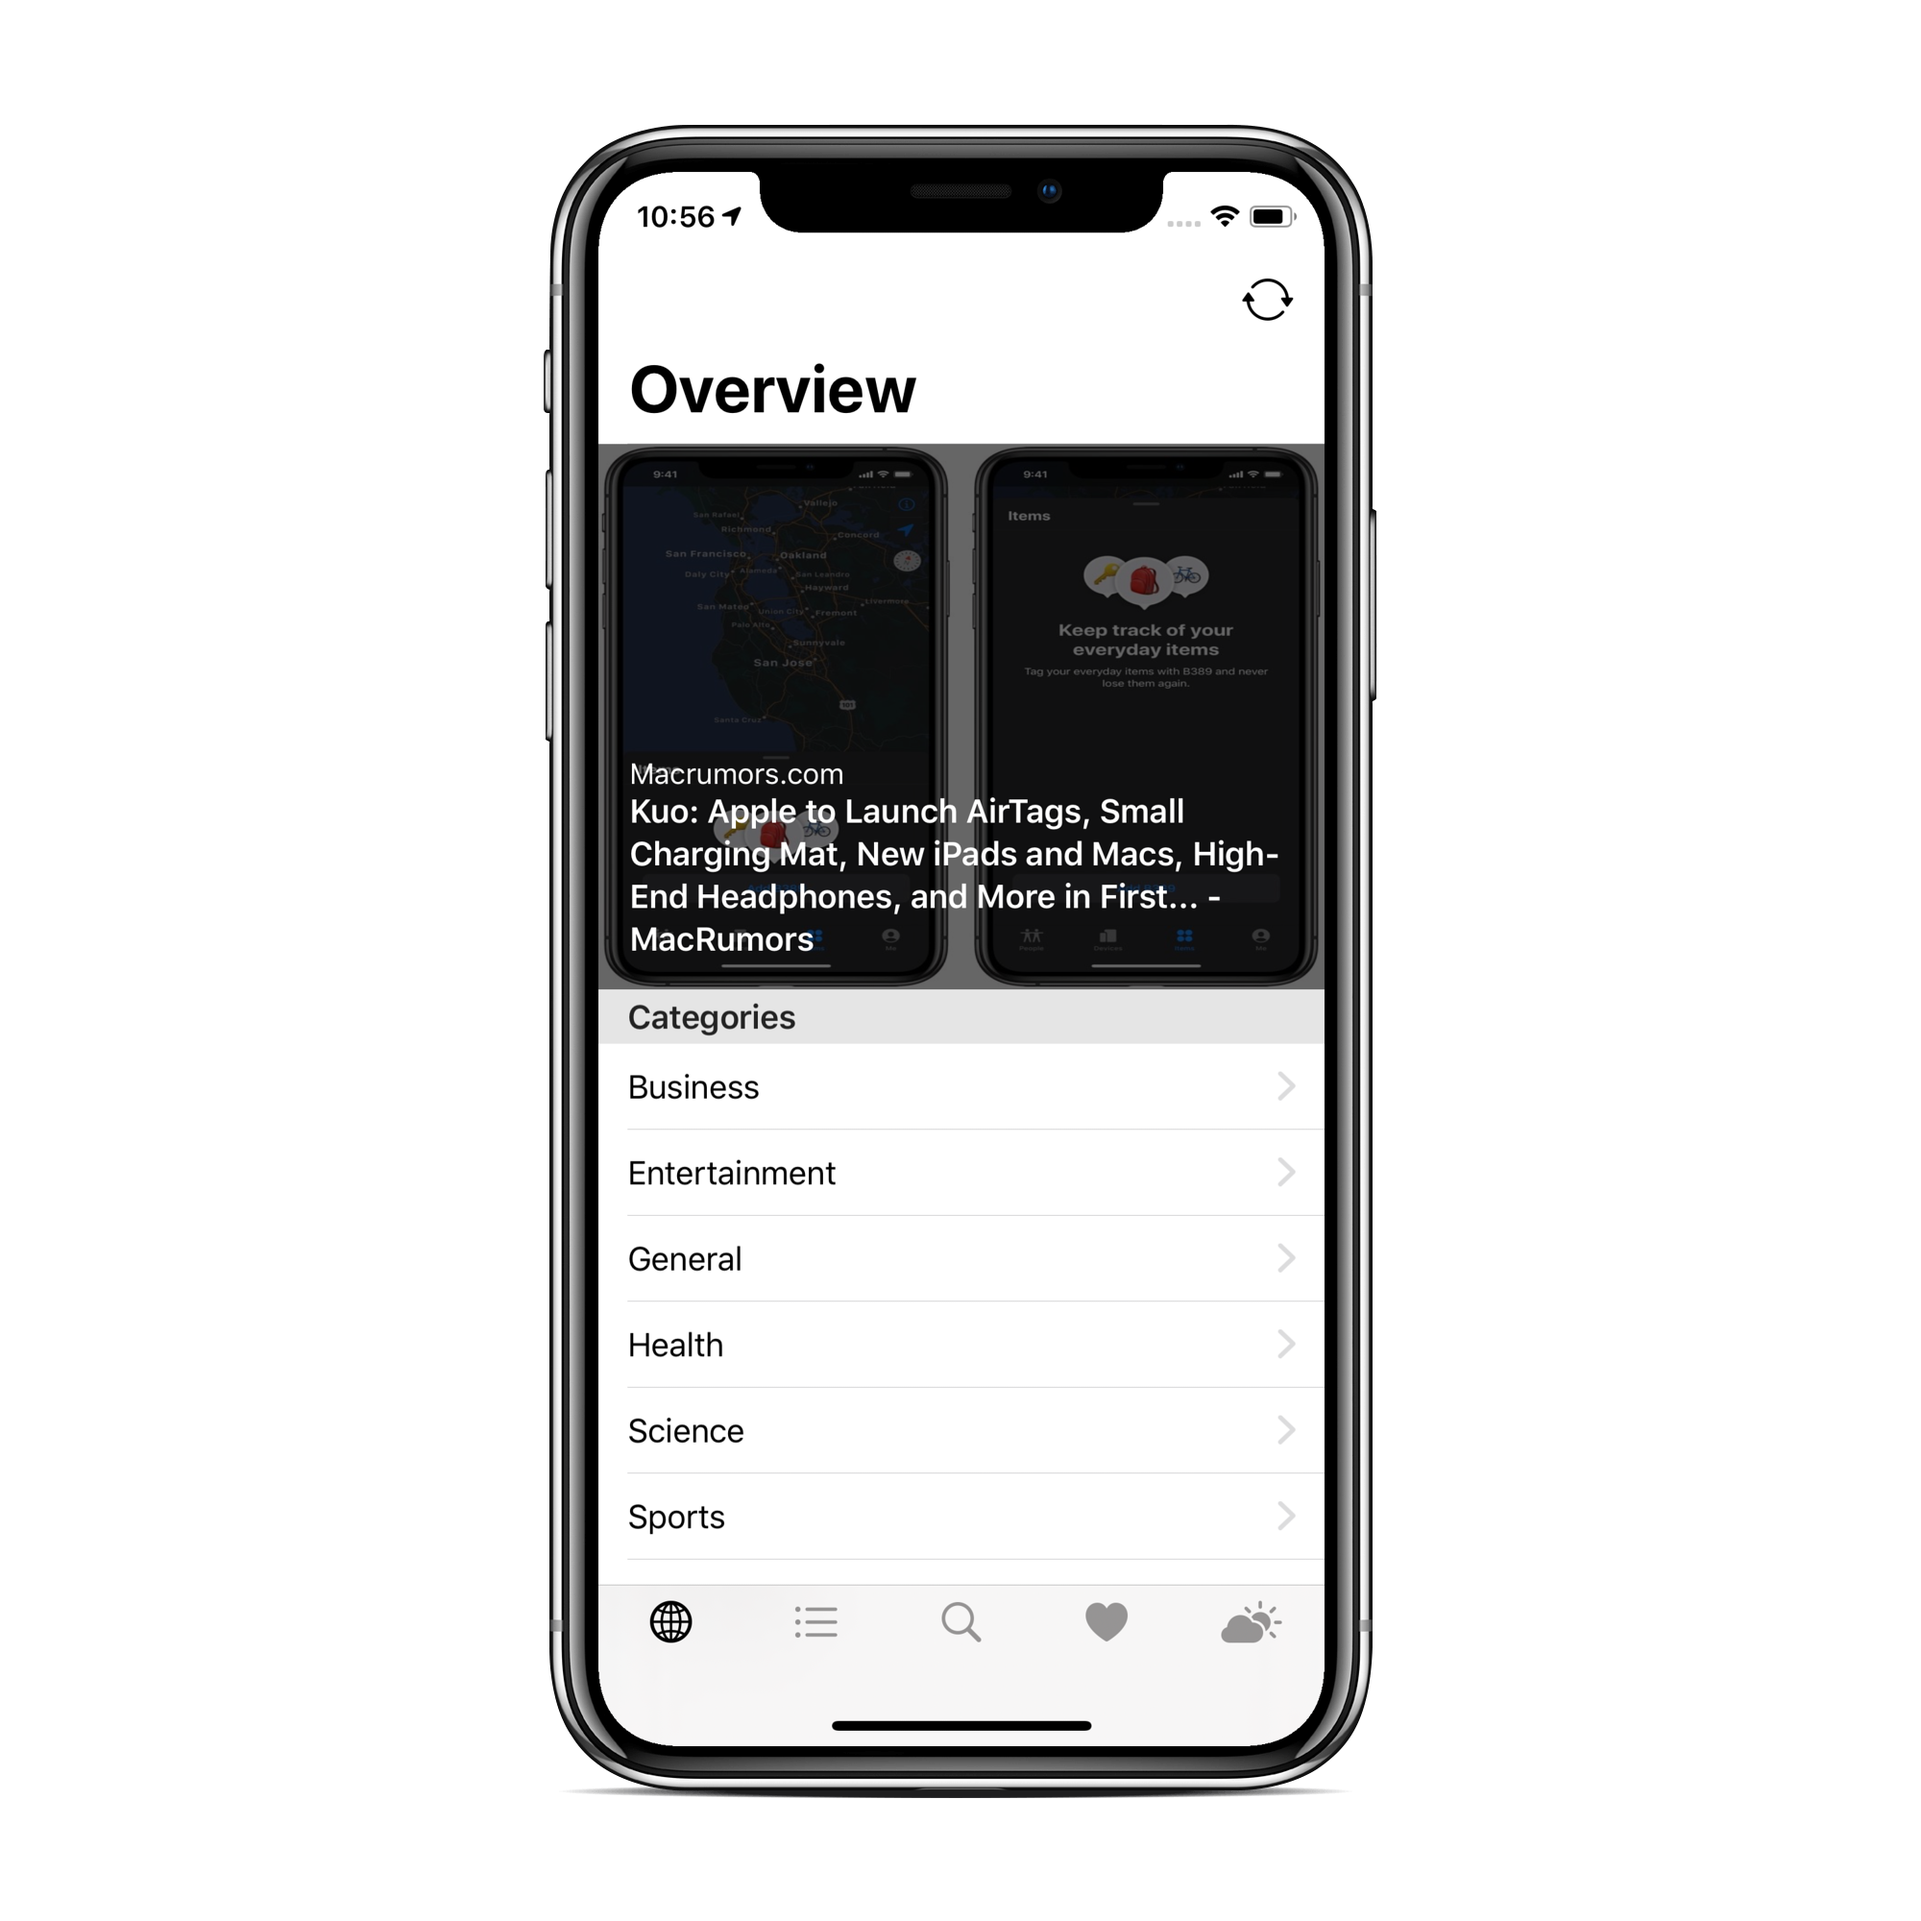
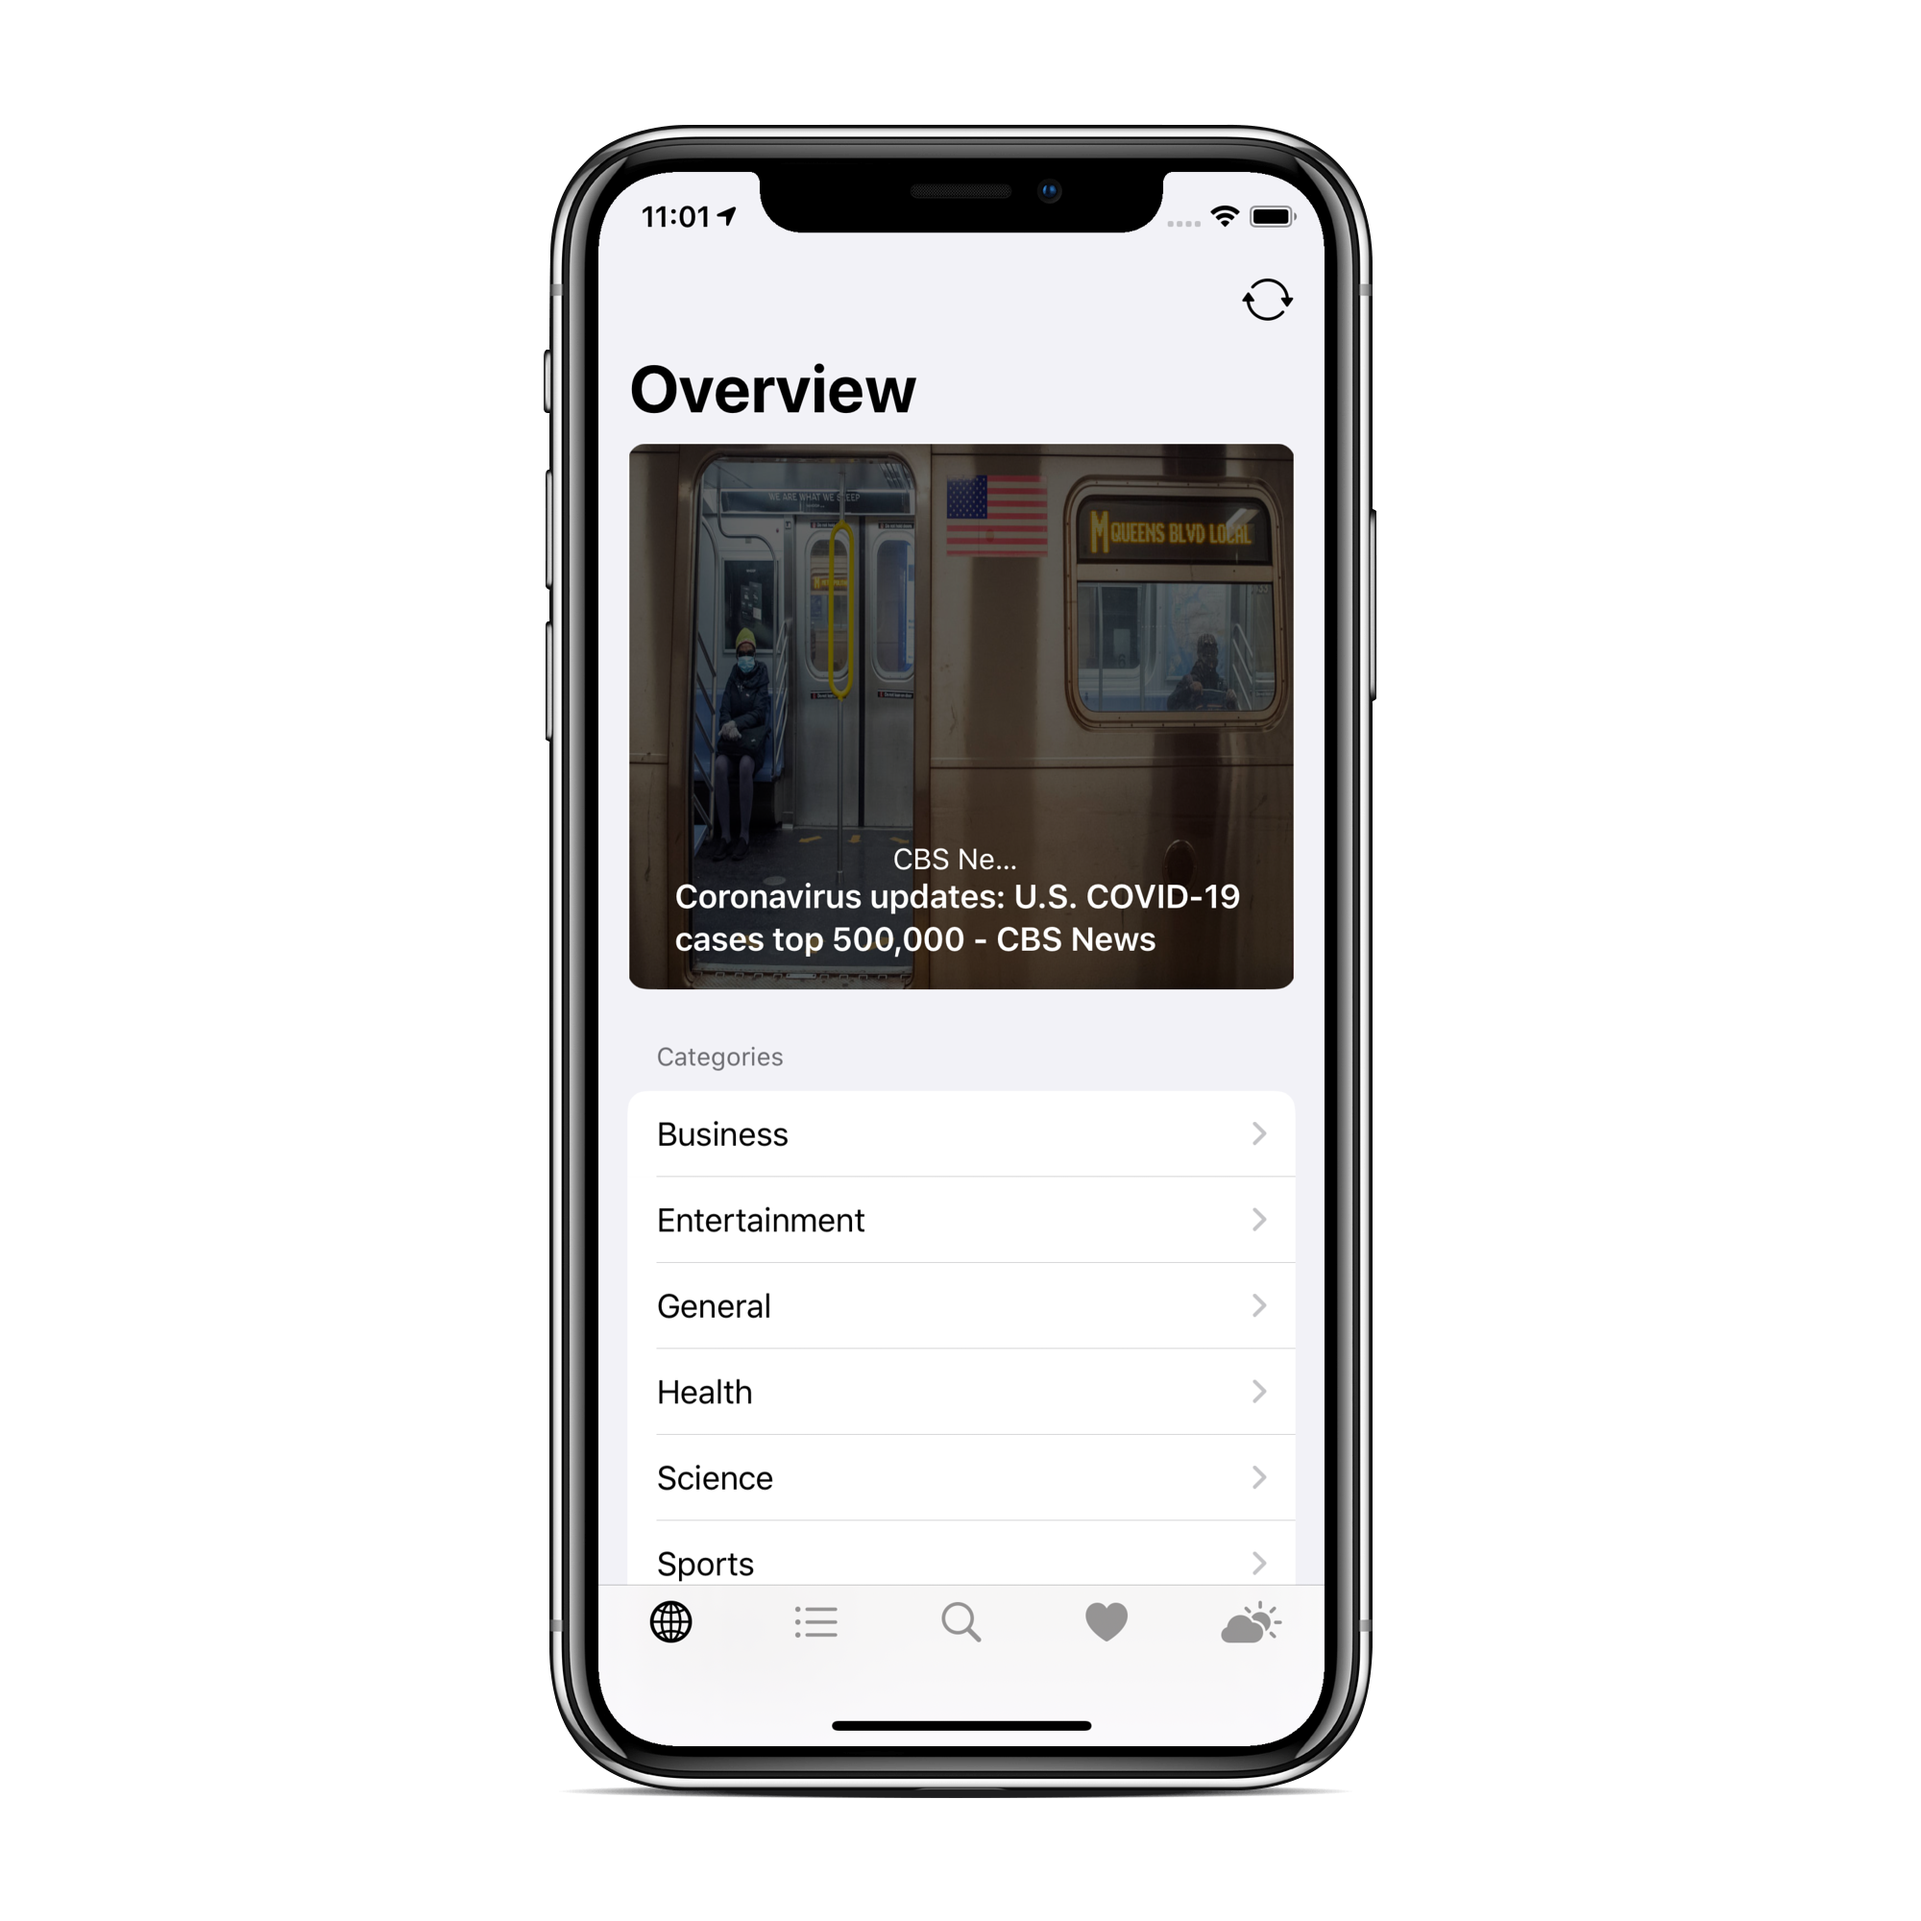
ui update

Changed region(s): [[0.31, 0.217, 0.713, 0.837], [0.341, 0.093, 0.372, 0.124]]

diff --git a/NewsApp With SwiftUI Framework/UI/MainView/TopHeadlines/TopHeadlineRow.swift b/NewsApp With SwiftUI Framework/UI/MainView/TopHeadlines/TopHeadlineRow.swift
@@ -20,14 +20,14 @@ struct TopHeadlineRow : View {
         ZStack(alignment: .bottom) {
             KFImage(URL(string: article.urlToImage ?? ""))
                 .resizable()
-                .frame(width: UIScreen.main.bounds.width,
+                .frame(width: UIScreen.main.bounds.width - 32,
                        height: UIScreen.main.bounds.width / 4 * 3,
                        alignment: .center)
             
             Rectangle()
                 .foregroundColor(.black)
                 .opacity(0.6)
-                .frame(width: UIScreen.main.bounds.width,
+                .frame(width: UIScreen.main.bounds.width - 32,
                        height: UIScreen.main.bounds.width / 4 * 3,
                        alignment: .center)
             
@@ -79,16 +79,12 @@ struct TopHeadlineRow : View {
                 .font(.subheadline)
                 .lineLimit(nil)
                 .padding([.leading, .trailing])
-                .frame(width: UIScreen.main.bounds.width,
-                       alignment: .bottomLeading)
             
             Text(verbatim: article.title ?? "")
                 .foregroundColor(.white)
                 .font(.headline)
                 .lineLimit(nil)
                 .padding([.leading, .bottom, .trailing])
-                .frame(width: UIScreen.main.bounds.width,
-                       alignment: .bottomLeading)
         }
     }
 }

diff --git a/NewsApp With SwiftUI Framework/Tools/Container.swift b/NewsApp With SwiftUI Framework/Tools/Container.swift
@@ -18,8 +18,8 @@ class Container {
     }()
     
     /// News API key url: https://newsapi.org
-    static let newsAPIKey: String = "2dd517ab40234c28ac65a27b4845a4aa"
+    static let newsAPIKey: String = "YOUR_API_KEY"
     
     /// Weather API key url: https://darksky.net
-    static let weatherAPIKey: String = "7aaa77c1ca5f9bb8a2db5169856d5af6"
+    static let weatherAPIKey: String = "YOUR_API_KEY"
 }

diff --git a/NewsApp With SwiftUI Framework/UI/Weather/WeatherView.swift b/NewsApp With SwiftUI Framework/UI/Weather/WeatherView.swift
@@ -22,6 +22,8 @@ struct WeatherView: View {
                         hourlyWeatherSection
                         dailyWeatherSection
                     })
+                    .listStyle(GroupedListStyle())
+                    .environment(\.horizontalSizeClass, .regular)
                 }
             }
             .navigationBarTitle(Text(verbatim: viewModel.locationName), displayMode: .large)

diff --git a/NewsApp With SwiftUI Framework/UI/MainView/MainView.swift b/NewsApp With SwiftUI Framework/UI/MainView/MainView.swift
@@ -62,5 +62,7 @@ struct MainView : View {
                 }
             }
         }
+        .listStyle(GroupedListStyle())
+        .environment(\.horizontalSizeClass, .regular)
     }
 }

diff --git a/README.md b/README.md
@@ -9,7 +9,7 @@
 ##### 3. Insert your keys into Container.swift file
 ##### 4. Run app
 ## Overview tab
-![OverviewTab](https://github.com/AlexeyVoronov96/NewsApp-With-SwiftUI/blob/master/NewsApp%20With%20SwiftUI%20Framework/ScreenShots/OverviewTab.png)
+![OverviewTab](https://github.com/AlexeyVoronov96/NewsApp-With-SwiftUI/blob/master/NewsApp%20With%20SwiftUI%20Framework/ScreenShots/Overview.png)
 ![ActionsWithArticles](https://github.com/AlexeyVoronov96/NewsApp-With-SwiftUI/blob/master/NewsApp%20With%20SwiftUI%20Framework/ScreenShots/ArticleActions.png)
 ## Sources tab
 ![SourcesTab](https://github.com/AlexeyVoronov96/NewsApp-With-SwiftUI/blob/master/NewsApp%20With%20SwiftUI%20Framework/ScreenShots/Sources.png)
@@ -18,6 +18,6 @@
 ## Favorites tab
 ![FavoritesTab](https://github.com/AlexeyVoronov96/NewsApp-With-SwiftUI/blob/master/NewsApp%20With%20SwiftUI%20Framework/ScreenShots/FavoritesTab.png)
 ## Current weather tab
-![CurrentWeatherTab](https://github.com/AlexeyVoronov96/NewsApp-With-SwiftUI/blob/master/NewsApp%20With%20SwiftUI%20Framework/ScreenShots/WeatherTab.png)
+![CurrentWeatherTab](https://github.com/AlexeyVoronov96/NewsApp-With-SwiftUI/blob/master/NewsApp%20With%20SwiftUI%20Framework/ScreenShots/Weather.png)
 ## WebView
 ![WebView](https://github.com/AlexeyVoronov96/NewsApp-With-SwiftUI/blob/master/NewsApp%20With%20SwiftUI%20Framework/ScreenShots/WebView.png)
